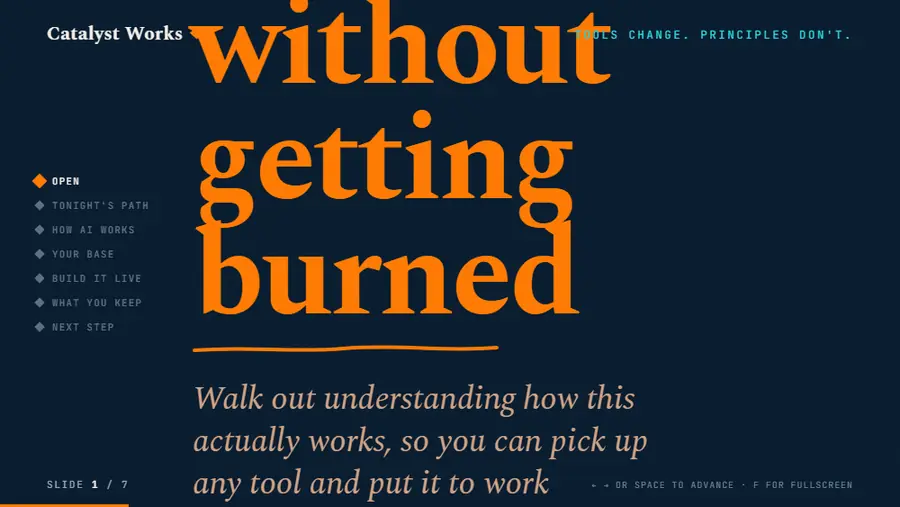
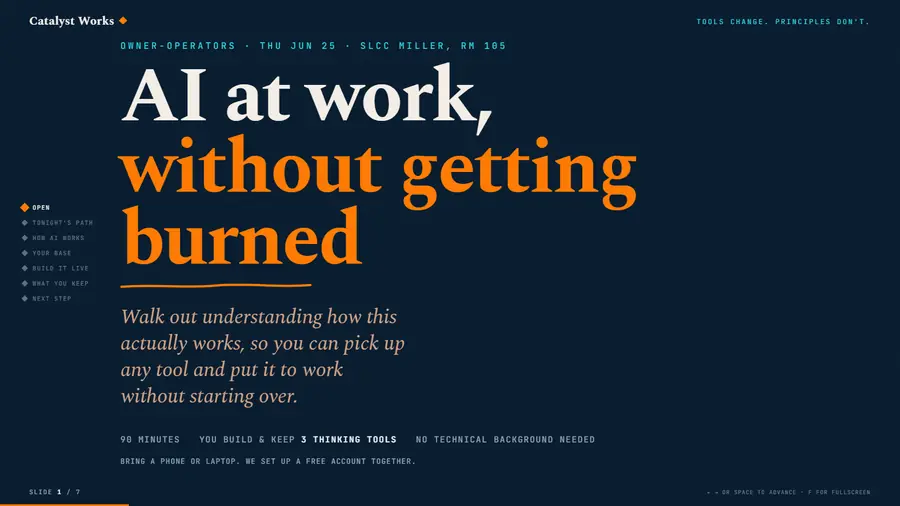
review(deck-cut): June thumbs were cropped, recaptured at full 1600x900, and the deck stamps its own slide count

Changed region(s): [[0.0, 0.0, 0.9644, 1.0], [0.6844, 0.9486, 0.9644, 0.9783], [0.0, 0.9486, 0.1556, 1.0]]

diff --git a/review/20260728-deck-cut-decision/index.html b/review/20260728-deck-cut-decision/index.html
@@ -168,7 +168,8 @@ code{font-family:var(--mono);font-size:.88em;background:rgba(32,25,15,.06);paddi
 </style>
 </head>
 <body>
-<!-- DEPLOY_STAMP_START --><div id="deploy-stamp" style="position:fixed;top:8px;right:10px;z-index:99999;font-family:ui-monospace,'SF Mono',SFMono-Regular,Menlo,Consolas,monospace;font-size:11px;line-height:1;color:rgba(165,151,131,0.78);background:rgba(20,18,16,0.72);border:1px solid rgba(236,226,210,0.14);border-radius:6px;padding:4px 8px;letter-spacing:0.02em;backdrop-filter:blur(4px);-webkit-backdrop-filter:blur(4px);pointer-events:none;user-select:none;white-space:nowrap;">v4 · 2026-07-28-16:38:26 MT</div><!-- DEPLOY_STAMP_END -->
+<!-- DEPLOY_STAMP_START --><div id="deploy-stamp" style="position:fixed;top:8px;right:10px;z-index:99999;font-family:ui-monospace,'SF Mono',SFMono-Regular,Menlo,Consolas,monospace;font-size:11px;line-height:1;color:rgba(165,151,131,0.78);background:rgba(20,18,16,0.72);border:1px solid rgba(236,226,210,0.14);border-radius:6px;padding:4px 8px;letter-spacing:0.02em;backdrop-filter:blur(4px);-webkit-backdrop-filter:blur(4px);pointer-events:none;user-select:none;white-space:nowrap;">v5 · 2026-07-28-16:42:48 MT</div><!-- DEPLOY_STAMP_END -->
+
 
 
 
@@ -215,6 +216,7 @@ code{font-family:var(--mono);font-size:.88em;background:rgba(32,25,15,.06);paddi
   <summary>The June 25 deck, all seven <span class="cnt">Recovered</span></summary>
   <div class="secbody">
     <p>Live at <a href="https://boubacarbarry.com/review/archive/workshop-deck/">boubacarbarry.com/review/archive/workshop-deck/</a>. It was never named for June, which is why it took finding. Published 2026-06-22, last edited on the day of the workshop, then moved under <code>review/archive/</code> by the routine sweep on 2026-07-14. Nothing was lost.</p>
+    <div class="note" style="margin-top:14px"><b>You do not have to take my word for the count.</b> Tap the first thumbnail. The deck stamps <code>SLIDE 1 / 7</code> in its own footer, bottom left.</div>
 
     <div class="row"><span></span><div class="pn">1</div><a class="th" href="img/jun-00.webp"><img src="img/jun-00.webp" loading="lazy" decoding="async" width="900" height="506" alt="Slide jun-00"></a><div class="rc"><h3>Title and promise</h3><p>90 minutes, you build and keep 3 thinking tools, no technical background needed.</p></div><span class="tag lock">Open</span></div>
     <div class="row"><span></span><div class="pn">2</div><a class="th" href="img/jun-01.webp"><img src="img/jun-01.webp" loading="lazy" decoding="async" width="900" height="506" alt="Slide jun-01"></a><div class="rc"><h3>Tonight, in order</h3><p>The agenda with minute marks.</p></div><span class="tag lock">Agenda</span></div>
@@ -392,6 +394,7 @@ code{font-family:var(--mono);font-size:.88em;background:rgba(32,25,15,.06);paddi
 </script>
 </body>
 </html>
+
 
 
 
